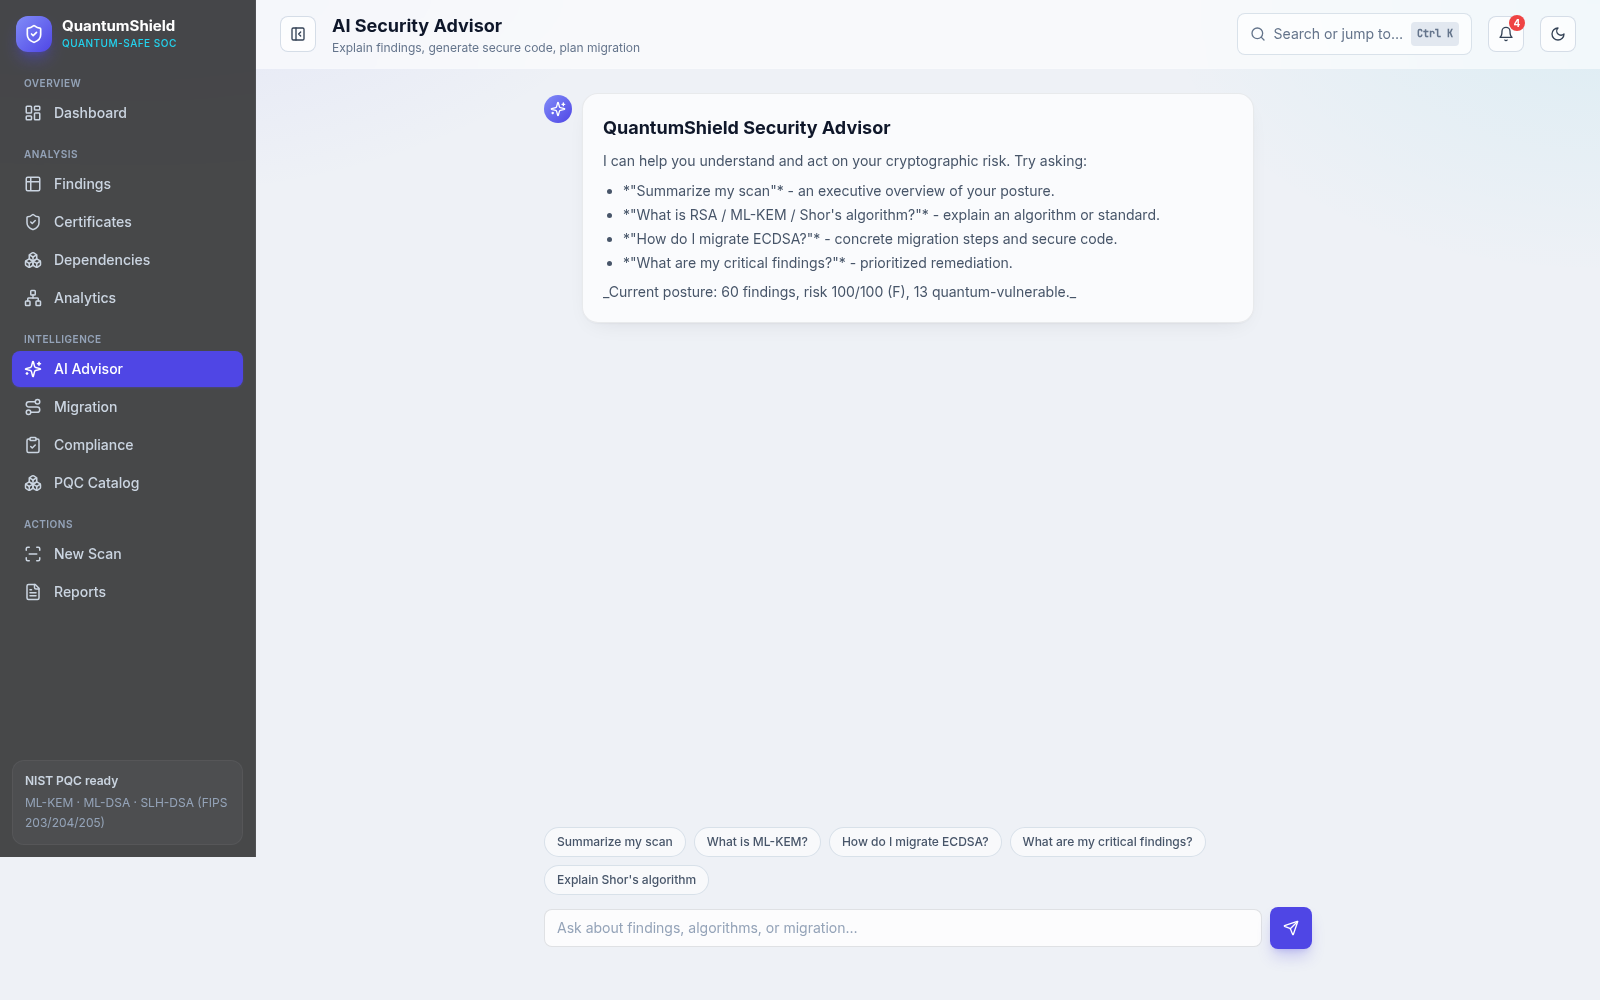
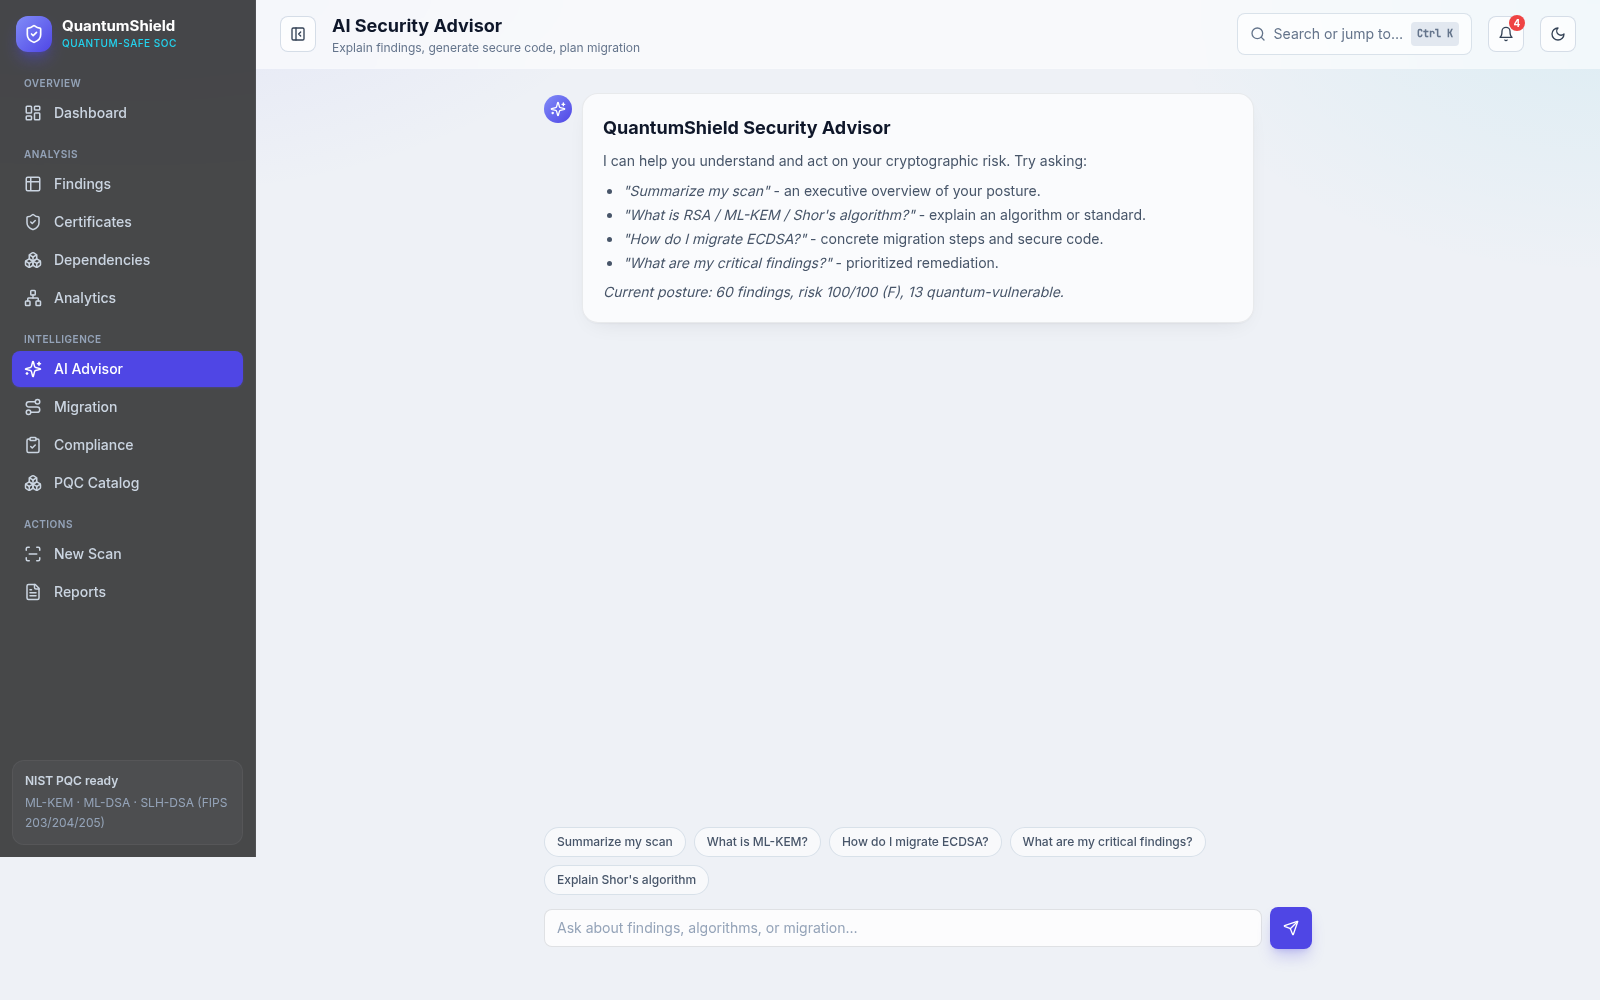
fix: render italics in advisor markdown
The minimal renderer only handled **bold** and `code`, so single-asterisk
and underscore emphasis reached the page as literal characters — visible
in the advisor greeting as *"Summarize my scan"* and _Current posture_.

Add italic support. Underscore emphasis requires non-word boundaries so
identifiers like payments/token_signing.py are left alone, matching
CommonMark's intraword rule.

Changed region(s): [[0.375, 0.186, 0.7188, 0.31]]

diff --git a/frontend/src/components/Markdown.tsx b/frontend/src/components/Markdown.tsx
@@ -1,24 +1,32 @@
 import { ReactNode } from "react";
 
 // Minimal markdown renderer for advisor content (headings, lists, bold,
-// inline + fenced code). Avoids a heavy dependency.
+// italic, inline + fenced code). Avoids a heavy dependency.
+//
+// Order matters: **bold** must be tried before *italic*. Underscore italics
+// require non-word boundaries so identifiers like token_signing_key are left
+// alone, matching CommonMark's intraword rule.
+const INLINE_RE = /(\*\*[^*]+\*\*|`[^`]+`|\*[^*\n]+\*|(?<![A-Za-z0-9])_[^_\n]+_(?![A-Za-z0-9]))/g;
+
 function inline(text: string): ReactNode[] {
   const nodes: ReactNode[] = [];
-  const re = /(\*\*[^*]+\*\*|`[^`]+`)/g;
   let last = 0;
   let m: RegExpExecArray | null;
   let key = 0;
-  while ((m = re.exec(text))) {
+  INLINE_RE.lastIndex = 0;
+  while ((m = INLINE_RE.exec(text))) {
     if (m.index > last) nodes.push(text.slice(last, m.index));
     const tok = m[0];
     if (tok.startsWith("**"))
       nodes.push(<strong key={key++} className="font-semibold text-slate-900 dark:text-white">{tok.slice(2, -2)}</strong>);
-    else
+    else if (tok.startsWith("`"))
       nodes.push(
         <code key={key++} className="rounded bg-slate-200/70 px-1 py-0.5 font-mono text-[0.85em] text-brand-700 dark:bg-white/10 dark:text-brand-300">
           {tok.slice(1, -1)}
         </code>
       );
+    else
+      nodes.push(<em key={key++} className="italic">{tok.slice(1, -1)}</em>);
     last = m.index + tok.length;
   }
   if (last < text.length) nodes.push(text.slice(last));
